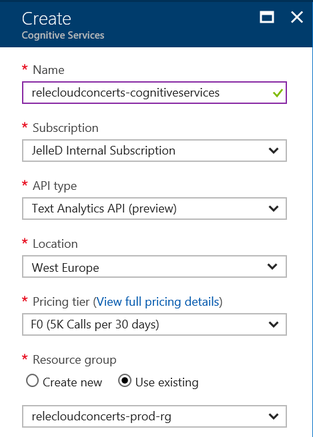
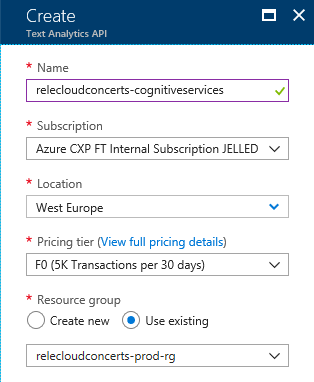
Updated documentation for Cognitive Services which is no longer a dedicated resource but replaced by the individual APIs underneath

Changed region(s): [[0.0575, 0.144, 0.9201, 0.9791], [0.0, 0.0, 1.0, 1.0], [0.8051, 0.0, 0.8914, 0.0576]]

diff --git a/ecommerce/articles/README.md b/ecommerce/articles/README.md
@@ -332,12 +332,11 @@ App:Cdn:Url | The CDN Endpoint URL you copied before
 #### Add sentiment analysis for reviews using Cognitive Services
 > This allows you to determine whether the sentiment of a user review is positive or negative
 
-* Go back to your Resource Group in the Azure Portal and [create a new Cognitive Services API](https://docs.microsoft.com/en-us/azure/cognitive-services/cognitive-services-apis-create-account)
-  * _Suggested name for the Cognitive Services resource: `<prefix>-cognitiveservices`_
-  * For the **API type**, choose **Text Analytics API**
-  * For the **Pricing tier**, choose the `Free F0` if possible (there is a limit of one free account per subscription) or the `Standard S1` otherwise
-  * ![Create Cognitive Services](media/cognitiveservices-create.png)
-* After the Cognitive Service has been created
+* Go back to your Resource Group in the Azure Portal and [create a new Text Analytics API](https://docs.microsoft.com/en-us/azure/cognitive-services/cognitive-services-apis-create-account)
+  * _Suggested name for the Text Analytics API resource: `<prefix>-cognitiveservices`_
+  * For the **Pricing tier**, choose the `Free F0` if possible or the `Standard S0` otherwise
+  * ![Create Text Analytics API](media/cognitiveservices-create.png)
+* After the Text Analytics API has been created
   * Open the **Overview** blade and copy the **Endpoint** URL to Notepad
   * Open the **Keys** blade and copy **Key 1** to Notepad
 * Navigate to the Function App in the Azure Portal and open the **Application settings** tab
